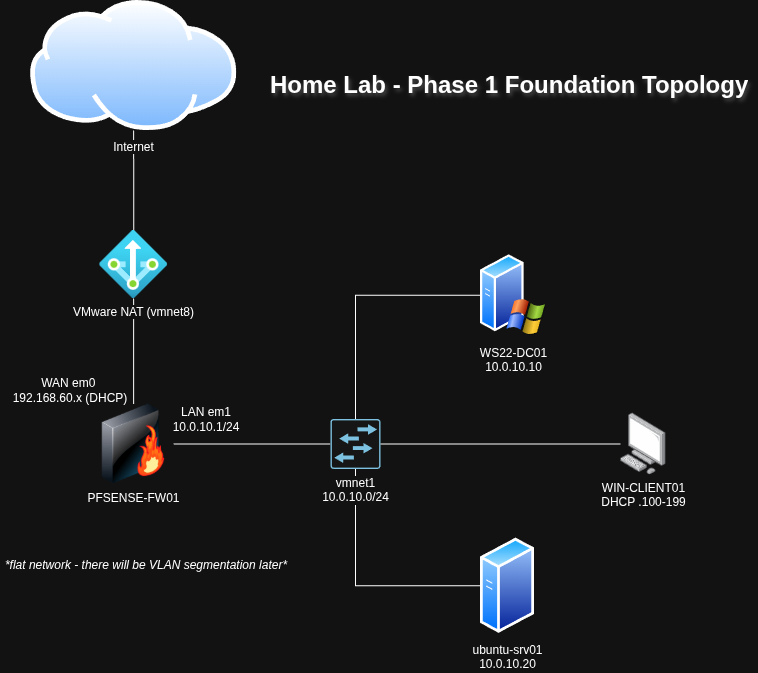
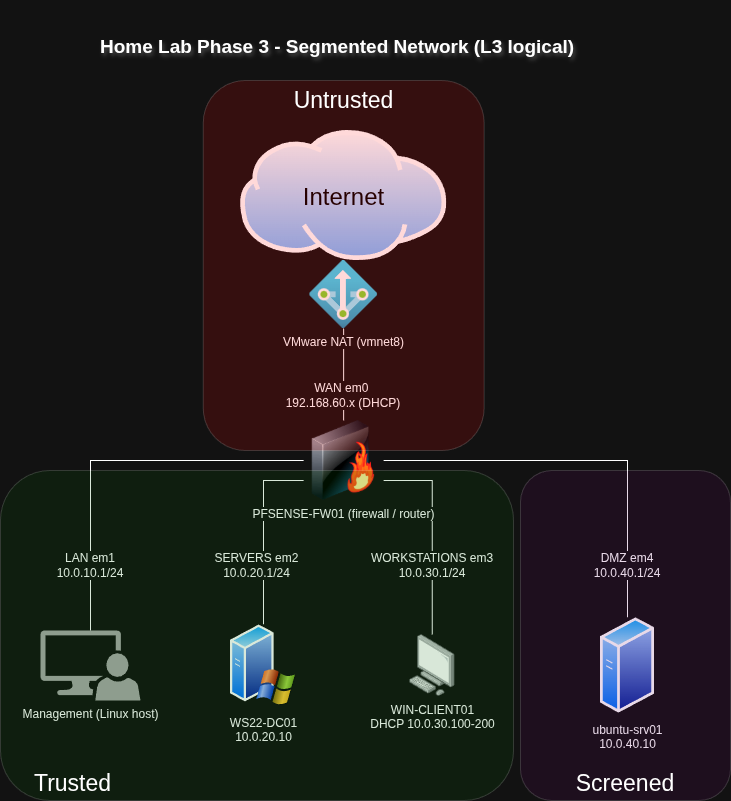
docs: add Phase 3 — network segmentation and firewall rules

diff --git a/phases/03-vlans-segmentation.md b/phases/03-vlans-segmentation.md
@@ -1,0 +1,70 @@
+# Phase 3 — Network segmentation and re-IP
+
+Phases 1 and 2 left me with a flat 10.0.10.0/24 network — every VM on one subnet behind pfSense. The goal for Phase 3 was to break that apart into separate segments with real firewall policy between them: a management network, a servers network, a workstations network, and a screened subnet (DMZ) for anything I'd treat as less trusted. pfSense handles all the routing and filtering between them.
+
+## Addressing
+
+The flat network became four subnets, each with pfSense as the .1 gateway:
+
+| Segment | Subnet | pfSense interface | Gateway | Host |
+|---|---|---|---|---|
+| Management | 10.0.10.0/24 | em1 | 10.0.10.1 | Linux host (admin) |
+| Servers | 10.0.20.0/24 | em2 | 10.0.20.1 | WS22-DC01 (10.0.20.10) |
+| Workstations | 10.0.30.0/24 | em3 | 10.0.30.1 | WIN-CLIENT01 (DHCP .100–200) |
+| Screened / DMZ | 10.0.40.0/24 | em4 | 10.0.40.1 | ubuntu-srv01 (10.0.40.10) |
+
+![Network topology](../docs/network-diagram.png)
+
+## Why separate vmnets, not VLANs
+
+The name of the phase is a bit of a misnomer because I'm not actually running 802.1Q VLANs. VMware Workstation doesn't pass VLAN tags through to Windows guests the way a real switch does, so instead of one trunk carrying tagged VLANs I gave each segment its own host-only vmnet and a dedicated pfSense interface. Functionally it's the same outcome of separate broadcast domains, segment routing through the firewall, and per-segment DHCP and policy — it's just done as separate L2 segments instead of tags on a trunk. On physical hardware this would collapse down to VLANs on a trunk port, but the routing and firewall design wouldn't change.
+
+## Interfaces and firewall policy
+
+After adding the three new interfaces (em2–em4) and giving each its .1 address, the firewall rules are where the actual segmentation lives. pfSense evaluates rules per interface, top-down (first match wins), with an invisible 'implicit deny' at the bottom — so a brand-new interface blocks everything until you add a pass rule. It's also stateful, so you only write rules for the direction a connection starts and the replies come back automatically (don't need to write a reverse rule).
+
+The policy, per segment:
+
+- **Management** — keeps the default allow-to-any. It's where I administer from.
+- **Servers** — allow out to anything. The DC needs the internet for updates, NTP, and DNS forwarding, and it doesn't need to start connections into the other segments.
+- **Workstations** — allow to Servers, block to the DMZ, block to Management, then allow to the internet. I kept the Servers rule broad on purpose: AD logon uses Kerberos, LDAP, SMB and a range of other ports, and locking it down to a neat port list quietly breaks domain logon. The two block rules sit *above* the internet allow, otherwise first-match would let the internal traffic through before it ever hit the blocks.
+- **DMZ** — block to Servers, Workstations, and Management, then allow to the internet. If the Ubuntu box ever gets compromised, it can't reach back into anything internal. Logging is on for the block rules so denied attempts actually show up.
+
+![Workstations firewall rules](../docs/img/phase3-fw-workstations.png)
+
+## DHCP relay
+
+DHCP runs on the DC, but the clients now live on a different segment, so a broadcast DISCOVER won't reach it on its own. I turned on DHCP relay on the Workstations interface, pointing at the DC at 10.0.20.10. The relay stamps each request with the gateway address (10.0.30.1), and the DC uses that to pick the matching 10.0.30.0/24 scope.
+
+## Moving the domain controller
+
+This was the riskiest step, since the DC runs AD, DNS, and DHCP all at once. I moved its NIC onto the Servers vmnet and changed its IP to 10.0.20.10. The part that's easy to skip — and the reason a DC "breaks" after an IP change — is the DNS cleanup. I created reverse zones for the three new subnets, ran `ipconfig /registerdns`, restarted Netlogon (which re-registers the SRV records that tell clients where the DC lives) and the DNS service, deleted the stale 10.0.10.10 records, and pointed the forwarder at the new gateway. Then I rebuilt the DHCP scope for 10.0.30.0/24 with the router, DNS, and domain options.
+
+Verified it afterward — forward, reverse, and the SRV lookup all resolving to 10.0.20.10:
+
+![DC DNS verification](../docs/img/phase3-dc-verify.png)
+
+## Verification
+
+The whole point of the segmentation is that the right things are allowed and the wrong things are blocked, so I worked through a test matrix:
+
+| Flow | Test | Expected | Result |
+|---|---|---|---|
+| Workstations → Servers | domain logon, GPO applies | allow | pass |
+| Workstations → Internet | `ping 1.1.1.1` | allow | pass |
+| Workstations → DMZ | `Test-NetConnection 10.0.40.10 -Port 22` | block | blocked |
+| Workstations → Management | `ping 10.0.10.1` | block | blocked |
+| Servers → Internet | `ping 1.1.1.1` | allow | pass |
+| DMZ → Servers | `ping 10.0.20.10` | block | blocked (100% loss) |
+| DMZ → Internet | `ping google.com` | allow | pass |
+| Internet → inside | no WAN port-forwards | block | default deny |
+
+The two block results are the ones that matter most — they're the proof the screened subnet and the workstation isolation actually hold.
+
+## What broke
+
+The one that got me: after moving everything across, the client booted with an APIPA address (169.254.x.x) and the desktop GPO wasn't applying. I started by second-guessing the DHCP relay and the scope, but the real cause was dumber — I'd forgotten to switch the client VM's NIC over to the Workstations vmnet, so it was sitting on a segment with no DHCP server and falling back to APIPA. No valid IP meant no route to the DC, which is also why the GPO never ran. Moved the NIC to vmnet3, ran `ipconfig /release` and `/renew`, and it pulled 10.0.30.100. A `gpupdate /force` and a re-logon brought the wallpaper back.
+
+![APIPA and the fix](../docs/img/phase3-apipa-fix.png)
+
+The DC re-IP drove home the same lesson from the other direction: changing a domain controller's address isn't just an IP change. Without the DNS re-registration above, clients would still have been looking for it at the old address.